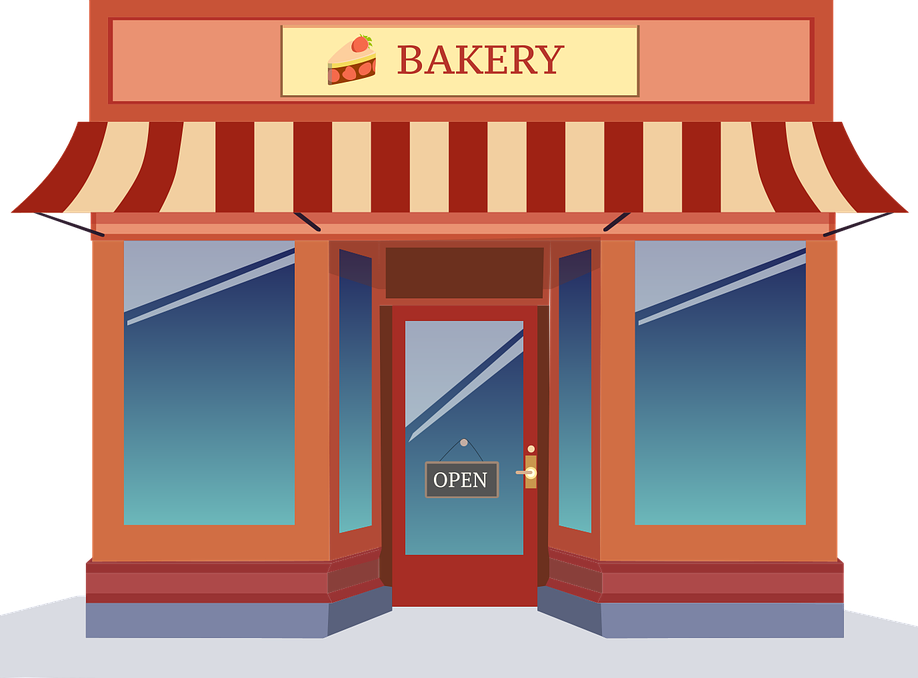
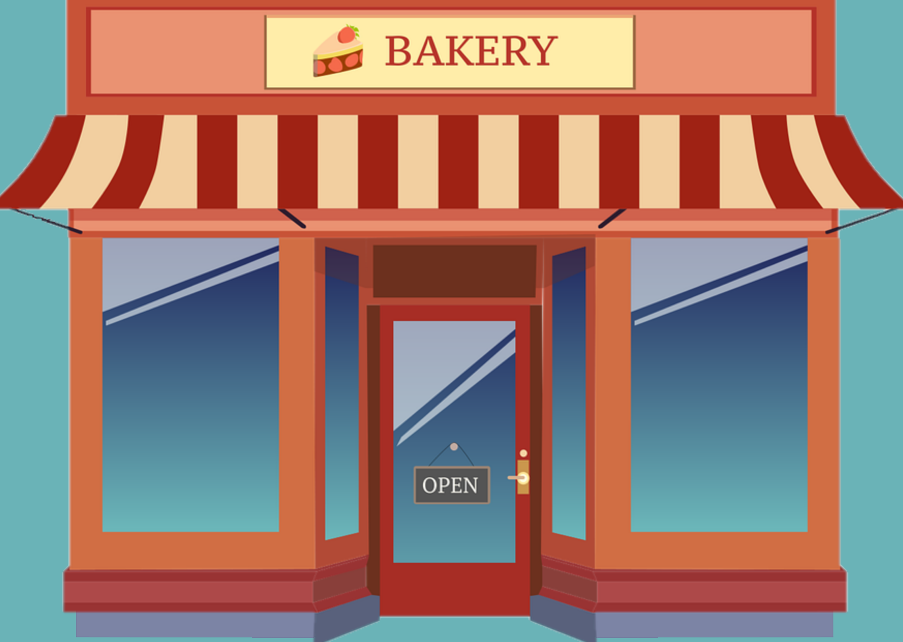
add poster

diff --git a/styles/styling.css b/styles/styling.css
@@ -30,8 +30,14 @@ p {
 
 .bakery-roof {
     display: flex;
-    justify-content: space-between;
-    padding: 20px;
+    justify-content: space-around;
+    padding: 20px 20px 0px 20px;
+}
+
+.baker {
+    display: flex;
+    flex-direction: column;
+    align-content: space-between;
 }
 
 .baker img {
@@ -65,4 +71,21 @@ input {
     display: flex;
     justify-content: center;
     align-items: center;
+}
+
+.bakery {
+    height: 750px;
+}
+
+.poster {
+    background: #ffeda9;
+    border: 3px solid #e08769;
+    margin: 5px;
+    border-radius: 5px;
+    color: #9f2214;
+    width: 150px;
+    height: 260px;
+    position: absolute;
+    margin-bottom: -150px;
+    margin-right: -625px;
 }

diff --git a/index.html b/index.html
@@ -62,7 +62,10 @@
                 </section>
             </div>
             <div class="bake-build">
-                <img src="/assets/bg.png" alt="a bakery" />
+                <img class="bakery" src="/assets/bg.png" alt="a bakery" />
+                <section class="poster">
+                    <p>Total Items Baked: <span id="oppo=defeat"></span></p>
+                </section>
             </div>
         </main>
     </body>

diff --git a/styles/global.css b/styles/global.css
@@ -1,5 +1,5 @@
 :root {
-    --background: white;
+    --background: #6ab3b7;
     --header-background: #ffeda9;
     --primary-font: Corbel, 'Lucida Grande', 'Lucida Sans Unicode', 'Lucida Sans', 'DejaVu Sans',
         'Bitstream Vera Sans', 'Liberation Sans', Verdana, 'Verdana Ref', sans-serif;
